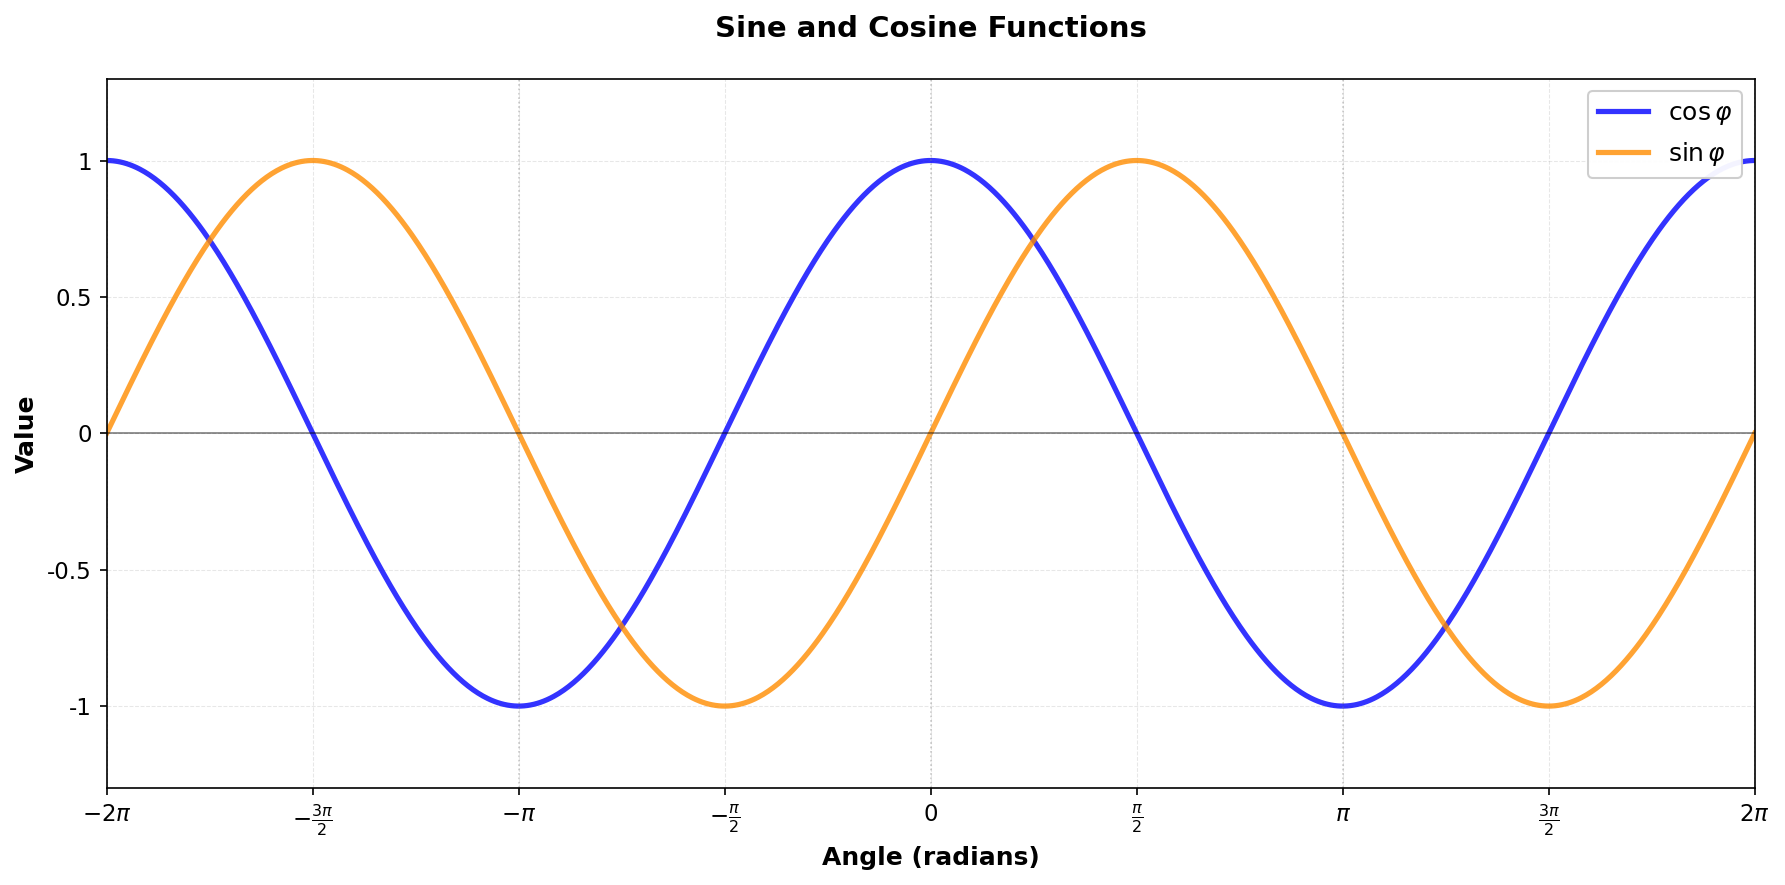
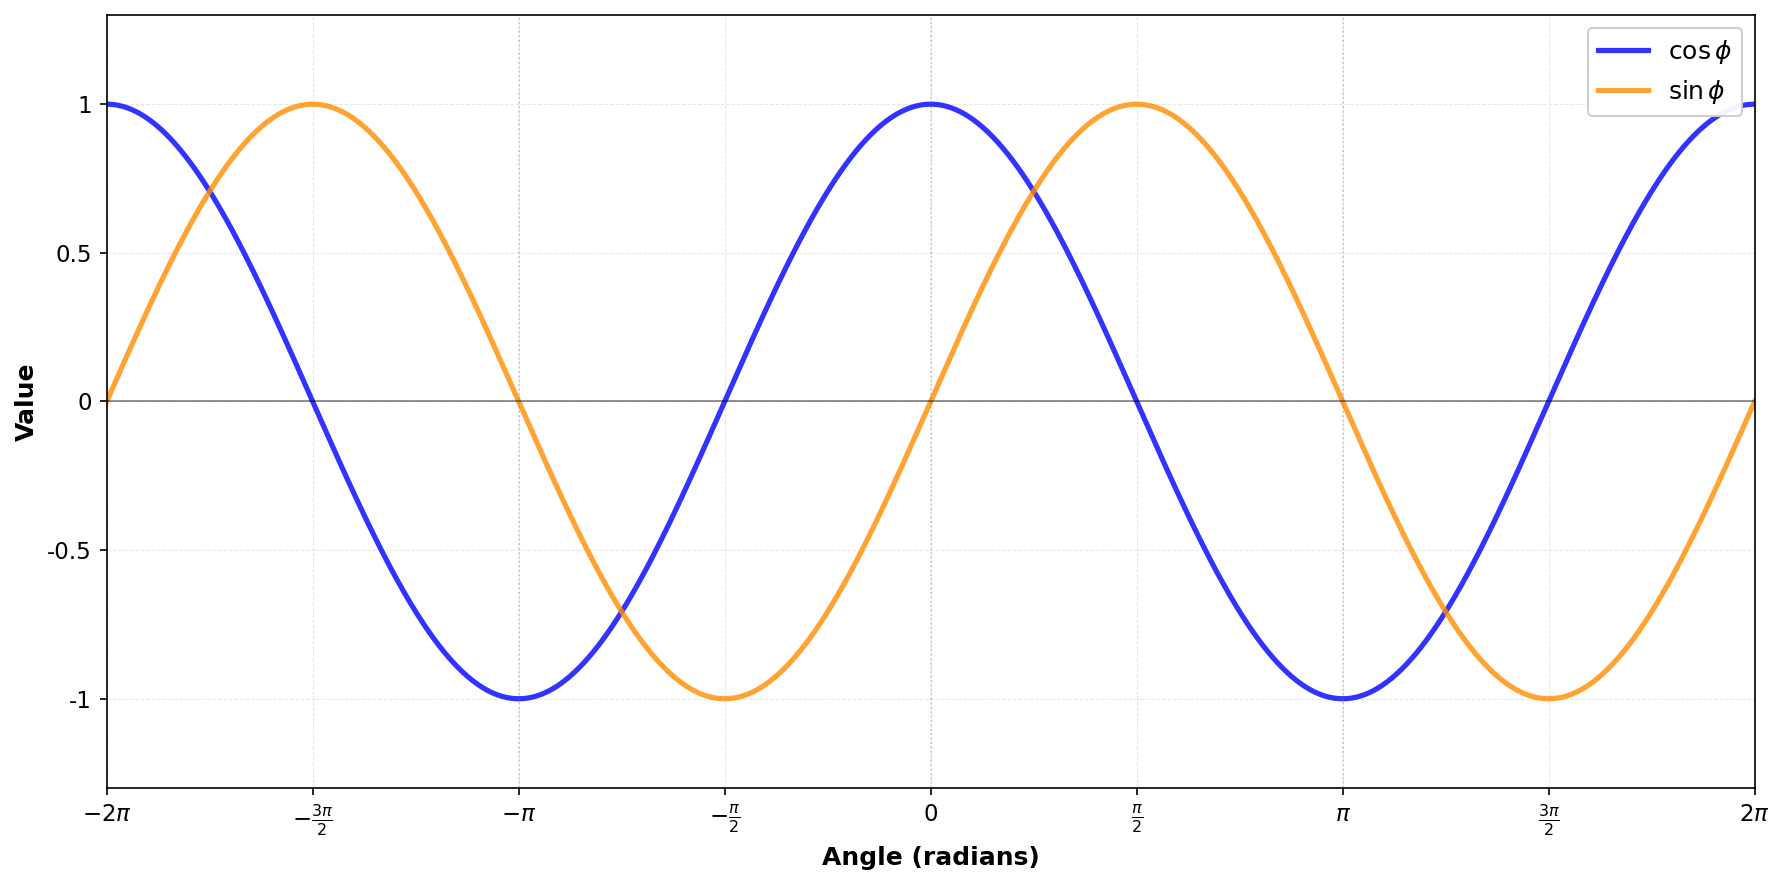
Tweaks to graph of functions

diff --git a/resources/sine_cosine_graph.py b/resources/sine_cosine_graph.py
@@ -16,8 +16,8 @@ sin_phi = np.sin(phi)
 cos_phi = np.cos(phi)
 
 # Plot the functions
-ax.plot(phi, cos_phi, 'b-', linewidth=2.5, label=r'$\cos \varphi$', alpha=0.8)
-ax.plot(phi, sin_phi, color='darkorange', linewidth=2.5, label=r'$\sin \varphi$', alpha=0.8)
+ax.plot(phi, cos_phi, 'b-', linewidth=2.5, label=r'$\cos \phi$', alpha=0.8)
+ax.plot(phi, sin_phi, color='darkorange', linewidth=2.5, label=r'$\sin \phi$', alpha=0.8)
 
 # Add horizontal line at y=0
 ax.axhline(y=0, color='k', linewidth=0.8, alpha=0.5)
@@ -25,10 +25,9 @@ ax.axhline(y=0, color='k', linewidth=0.8, alpha=0.5)
 # Grid
 ax.grid(True, alpha=0.3, linestyle='--', linewidth=0.5)
 
-# Set labels and title
+# Set labels
 ax.set_xlabel('Angle (radians)', fontsize=12, fontweight='bold')
 ax.set_ylabel('Value', fontsize=12, fontweight='bold')
-ax.set_title('Sine and Cosine Functions', fontsize=14, fontweight='bold', pad=20)
 
 # Set x-axis ticks at key angles
 pi_ticks = [-2*np.pi, -3*np.pi/2, -np.pi, -np.pi/2, 0, np.pi/2, np.pi, 3*np.pi/2, 2*np.pi]